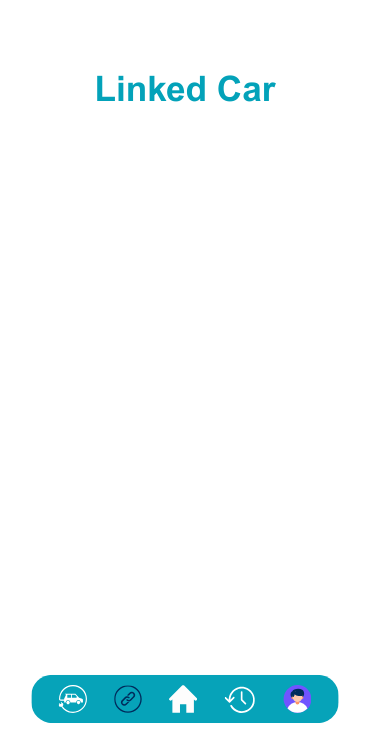
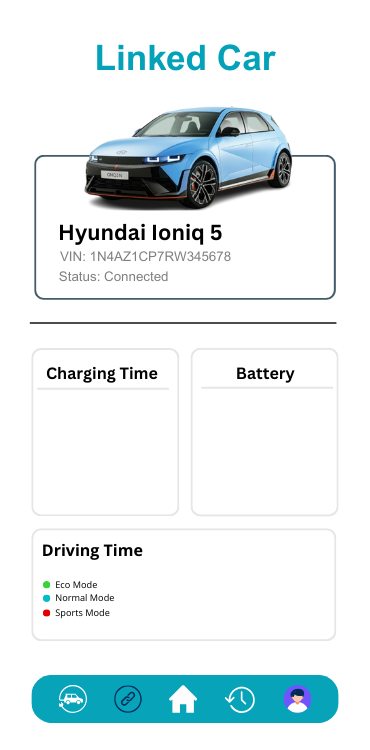
"LinkedCar Label"

diff --git a/src/main/java/cephra/Phone/Dashboard/LinkedCar.java b/src/main/java/cephra/Phone/Dashboard/LinkedCar.java
@@ -193,6 +193,11 @@ public class LinkedCar extends javax.swing.JPanel {
         km = new javax.swing.JLabel();
         cover = new javax.swing.JLabel();
         bar = new javax.swing.JLabel();
+        chargingTypeLabel = new javax.swing.JLabel();
+        chargingTimeLabel = new javax.swing.JLabel();
+        jLabel2 = new javax.swing.JLabel();
+        jLabel3 = new javax.swing.JLabel();
+        jLabel4 = new javax.swing.JLabel();
         jLabel1 = new javax.swing.JLabel();
 
         setLayout(null);
@@ -200,7 +205,7 @@ public class LinkedCar extends javax.swing.JPanel {
         car.setIcon(new javax.swing.ImageIcon(getClass().getResource("/cephra/Cephra Images/c7.png"))); // NOI18N
         car.setPreferredSize(new java.awt.Dimension(301, 226));
         add(car);
-        car.setBounds(34, 130, 301, 226);
+        car.setBounds(20, 75, 301, 226);
 
         jPanel1.setOpaque(false);
         jPanel1.setLayout(null);
@@ -217,7 +222,7 @@ public class LinkedCar extends javax.swing.JPanel {
             }
         });
         add(profilebutton);
-        profilebutton.setBounds(260, 670, 50, 50);
+        profilebutton.setBounds(260, 680, 50, 40);
 
         historybutton.setBorder(null);
         historybutton.setBorderPainted(false);
@@ -267,25 +272,50 @@ public class LinkedCar extends javax.swing.JPanel {
         add(charge);
         charge.setBounds(30, 680, 50, 40);
 
-        batterypercent.setFont(new java.awt.Font("Segoe UI", 1, 36)); // NOI18N
+        batterypercent.setFont(new java.awt.Font("Segoe UI", 1, 24)); // NOI18N
+        batterypercent.setHorizontalAlignment(javax.swing.SwingConstants.CENTER);
         batterypercent.setText("25 %");
         add(batterypercent);
-        batterypercent.setBounds(140, 500, 150, 30);
+        batterypercent.setBounds(210, 430, 80, 30);
 
-        km.setFont(new java.awt.Font("Segoe UI", 1, 36)); // NOI18N
+        km.setFont(new java.awt.Font("Segoe UI", 1, 20)); // NOI18N
+        km.setHorizontalAlignment(javax.swing.SwingConstants.CENTER);
         km.setText("400 km");
         add(km);
-        km.setBounds(110, 560, 130, 30);
+        km.setBounds(180, 480, 140, 30);
 
         cover.setIcon(new javax.swing.ImageIcon(getClass().getResource("/cephra/Cephra Images/Cover.png"))); // NOI18N
         cover.setText("Bar");
         add(cover);
-        cover.setBounds(60, 410, 230, 210);
+        cover.setBounds(130, 200, 230, 210);
 
         bar.setIcon(new javax.swing.ImageIcon(getClass().getResource("/cephra/Cephra Images/Bar.png"))); // NOI18N
-        bar.setText("Bar");
         add(bar);
-        bar.setBounds(60, 410, 230, 210);
+        bar.setBounds(130, 200, 230, 200);
+
+        chargingTypeLabel.setFont(new java.awt.Font("Segoe UI Semibold", 1, 18)); // NOI18N
+        chargingTypeLabel.setHorizontalAlignment(javax.swing.SwingConstants.CENTER);
+        chargingTypeLabel.setText("Fast Charging");
+        add(chargingTypeLabel);
+        chargingTypeLabel.setBounds(20, 410, 140, 25);
+
+        chargingTimeLabel.setFont(new java.awt.Font("Segoe UI", 1, 36)); // NOI18N
+        chargingTimeLabel.setHorizontalAlignment(javax.swing.SwingConstants.CENTER);
+        chargingTimeLabel.setText("100%");
+        add(chargingTimeLabel);
+        chargingTimeLabel.setBounds(40, 440, 100, 50);
+
+        jLabel2.setText("3hrs 12mins");
+        add(jLabel2);
+        jLabel2.setBounds(150, 574, 90, 16);
+
+        jLabel3.setText("2hrs 50mins");
+        add(jLabel3);
+        jLabel3.setBounds(150, 588, 90, 16);
+
+        jLabel4.setText("1hr 30mins");
+        add(jLabel4);
+        jLabel4.setBounds(150, 603, 90, 16);
 
         jLabel1.setIcon(new javax.swing.ImageIcon(getClass().getResource("/cephra/Cephra Images/linked.png"))); // NOI18N
         add(jLabel1);
@@ -373,10 +403,15 @@ public class LinkedCar extends javax.swing.JPanel {
     private javax.swing.JLabel batterypercent;
     private javax.swing.JLabel car;
     private javax.swing.JButton charge;
+    private javax.swing.JLabel chargingTimeLabel;
+    private javax.swing.JLabel chargingTypeLabel;
     private javax.swing.JLabel cover;
     private javax.swing.JButton historybutton;
     private javax.swing.JButton homebutton2;
     private javax.swing.JLabel jLabel1;
+    private javax.swing.JLabel jLabel2;
+    private javax.swing.JLabel jLabel3;
+    private javax.swing.JLabel jLabel4;
     private javax.swing.JPanel jPanel1;
     private javax.swing.JLabel km;
     private javax.swing.JButton linkbutton;
